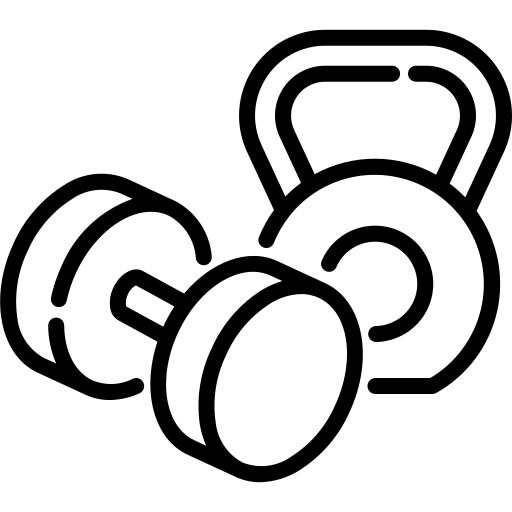
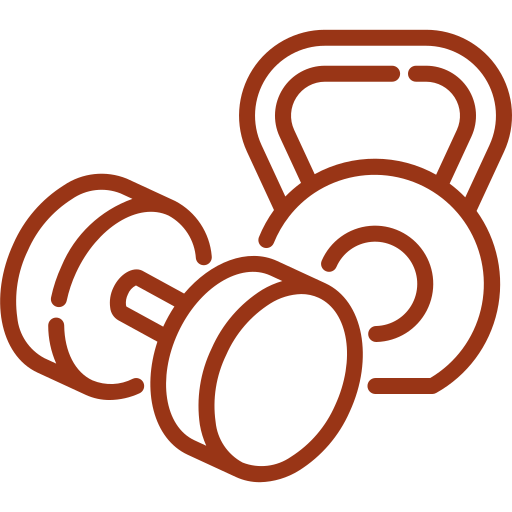
up

Changed region(s): [[0.0, 0.0312, 1.0, 0.9688]]

diff --git a/new-page/index.html b/new-page/index.html
@@ -502,7 +502,7 @@
     </div>
 
 
-    <div class="bgimg" style="background-image: url('images/bg_1.jpg');" data-stellar-background-ratio="0.5">
+    <div class="bgimg" style="background-image: url('./assets/woman-strong.png');" data-stellar-background-ratio="0.5">
       <div class="container">
         <div class="row align-items-center justify-content-center text-center">
           <div class="col-md-7">
@@ -614,15 +614,15 @@
         <div class="row">
           <div class="col-lg-6" data-aos="fade-up" data-aos-delay="">
             <div class="contact-info">
-              <h3>📍 Localização</h3>
-              <p>Cuiabá - MT<br>
+              <h3>Localização</h3>
+              <p>Várzea Grande - MT<br>
               Entre em contato para endereço completo</p>
               
-              <h3 style="margin-top: 30px;">📱 Contato</h3>
-              <p>WhatsApp: (65) 99999-9999<br>
+              <h3 style="margin-top: 30px;">Contato</h3>
+              <p>WhatsApp: (71)9147-0787<br>
               Email: contato@shedcross.com.br</p>
               
-              <h3 style="margin-top: 30px;">🕒 Horários</h3>
+              <h3 style="margin-top: 30px;">Horários</h3>
               <p>Segunda a Sexta: 05:00 às 20:00<br>
               Sábados: 08:00 às 12:00</p>
             </div>
@@ -635,11 +635,11 @@
               
               <div class="contact-buttons">
                 <a href="https://wa.me/5565999999999?text=Olá! Gostaria de agendar uma aula experimental na Shed Cross!" class="btn btn-primary btn-lg mb-3" target="_blank">
-                  📱 Agendar Aula Experimental
+                  Agendar Aula Experimental
                 </a>
                 <br>
                 <a href="https://wa.me/5565999999999?text=Olá! Gostaria de saber mais sobre os serviços de intervenção motora infantil!" class="btn btn-outline-primary btn-lg" target="_blank">
-                  👶 Intervenção Motora Infantil
+                  Intervenção Motora Infantil
                 </a>
               </div>
             </div>
@@ -728,8 +728,8 @@
       requestAnimationFrame(animation);
     }
     
-    // Adicionar event listeners
-    var navLinks = document.querySelectorAll('.nav-link[href^="#"]');
+    // Adicionar event listeners apenas para links de navegação (excluir tabs)
+    var navLinks = document.querySelectorAll('.site-navigation .nav-link[href^="#"]');
     navLinks.forEach(function(link) {
       link.addEventListener('click', function(e) {
         e.preventDefault();

diff --git a/new-page/css/style.css b/new-page/css/style.css
@@ -851,14 +851,20 @@ h1, h2, h3, h4, h5,
   .class-item .class-item-thumbnail {
     -webkit-box-flex: 0;
     -ms-flex: 0 0 120px;
-    flex: 0 0 120px; }
+    flex: 0 0 120px;
+    background-color: #993516;
+    border-radius: 4px;
+    border-top-right-radius: 0px;
+    border-bottom-right-radius: 0px;
+    display: flex;
+    align-items: center;
+    justify-content: center;
+    min-height: 80px; }
     .class-item .class-item-thumbnail img {
-      max-width: 100px;
-      border-radius: 4px;
-      border-top-right-radius: 0px;
-      border-bottom-right-radius: 0px; }
+      display: none; }
   .class-item .class-item-text {
-    color: rgba(255, 255, 255, 0.2); }
+    color: rgba(255, 255, 255, 0.2);
+    padding-left: 20px; }
     .class-item .class-item-text h2 {
       font-size: 18px;
       margin-bottom: 0px; }
@@ -1229,20 +1235,10 @@ h1, .heading {
   font-size: 60px;
 }
 
-/* Ícone personalizado para ficar igual aos flaticon - cor laranja #993516 */
+/* Ícone personalizado - sem filtros */
 .ftco-feature-1 .icon img {
   width: 70px;
   height: 70px;
   display: inline-block;
-  filter: sepia(100%) saturate(200%) hue-rotate(10deg) brightness(0.6) contrast(1.3);
-  vertical-align: middle;
-}
-
-/* Alternativa usando blend mode se o filtro não funcionar */
-.ftco-feature-1 .icon img.orange-tint {
-  width: 70px;
-  height: 70px;
-  display: inline-block;
-  filter: grayscale(1) sepia(1) saturate(3) hue-rotate(10deg);
   vertical-align: middle;
 }
